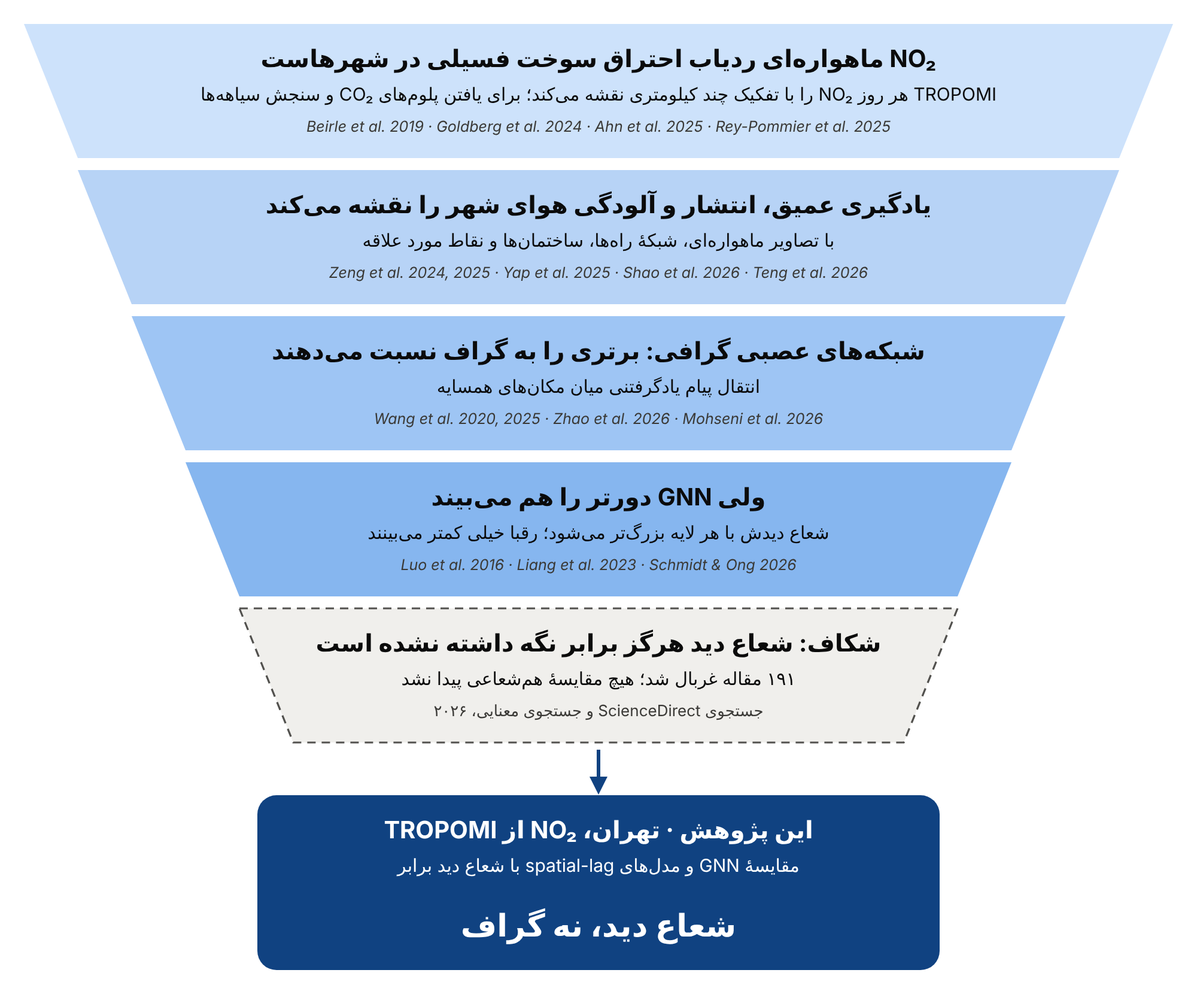
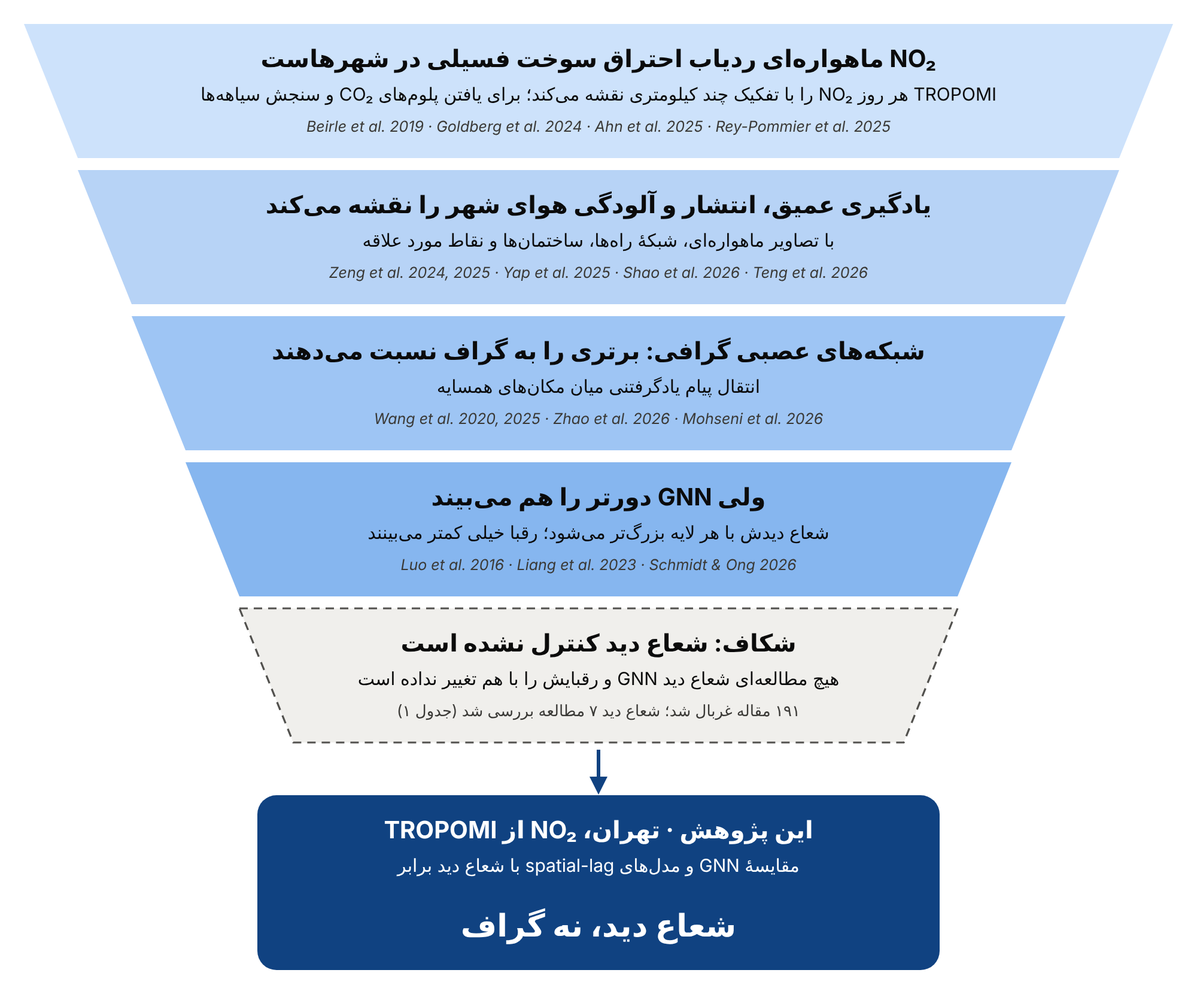
Paper: reach-matched evaluation protocol, reach audit of prior studies, prior art for the reach rule
- Prior-art check: setting a neighbourhood from the dependence range exists (Franklin
  1996 texture windows; Behrens 2019 contextual covariates; Valavi 2019 CV blocks;
  Alon & Yahav 2021 GNN depth; Freitas 2026 GNN receptive field). "Reach-matched"
  is unused. The rule is therefore presented as an adaptation, not a new method.
- Methods 3.2: correlation-length rule R* (zero crossing, 24 km) fixes one reach for
  the GNN and the SLX baselines; computed after stage A, so results are consistent
  with it, not a blind test.
- Introduction: Table 1, a reach audit of seven GNN studies read in full (arXiv).
  None gives a nonlinear spatial-lag baseline the GNN's reach or varies the reach of
  both; Liang et al. (2023) is the closest (linear SLX on the same 5 neighbours).
  Novelty sentence narrowed accordingly; tables renumbered (Table S1 supplementary).
- Results 4.3: all three SLX estimators at R* on the held-out year (descriptive).
- Highlights, abstract, discussion and Fig. 1 (both languages) updated; 6 references
  added (Crossref/arXiv checked).
- docs/paper/lit: README sections 4-5 and a Persian audit for the thesis.

Claude-Session: https://claude.ai/code/session_01QqPAc6FfeQJynBC1FwdAtq

Changed region(s): [[0.279, 0.6145, 0.744, 0.7373]]

diff --git a/docs/paper/manuscript/manuscript_en.md b/docs/paper/manuscript/manuscript_en.md
@@ -16,7 +16,7 @@ Data and code availability). Items in [brackets] are to be completed before subm
 - Skill rises steeply until the model sees about 12 km and saturates within the target's 24-km correlation length.
 - At equal reach, a linear spatial-lag model matches a five-layer graph neural network on an unseen year.
 - Averaging training seeds and a block bootstrap overstated the graph model's advantage.
-- Reach-matched spatial baselines should become the standard test for spatial deep learning.
+- A correlation-length rule gives graph and baseline models the same reach.
 
 ---
 
@@ -27,7 +27,8 @@ usually attributed to learning on a graph. We test this attribution for intra-ur
 space. In Tehran, a megacity with some of the highest tropospheric NO₂ columns among large cities worldwide, we predict
 the monthly TROPOMI NO₂ pattern on a 1-km grid (2,436 cells) from bottom-up traffic and energy emission layers, ground
 monitoring and urban-form data. We compare a multi-scale GraphSAGE model with spatially lagged regression (SLX) models
-whose neighbourhood reach is varied systematically from 0 to 38 km. All models are validated with 22-km spatial blocks
+whose neighbourhood reach is varied systematically from 0 to 38 km and, for the main comparison, set for all models
+by one rule: the correlation length of the target. All models are validated with 22-km spatial blocks
 and on a held-out year, with leakage-free pre-processing, five training seeds and inference designed for few spatial
 blocks.
 
@@ -126,22 +127,58 @@ The question has begun to surface in GIScience and environmental modelling:
   - GNN residuals can remain spatially autocorrelated (Bao et al., 2024).
   - A GNN that generalised within a fixed graph struggled under leave-one-cluster-out validation (Flores et al., 2026).
 
-In none of these comparisons, however, is the neighbourhood that the baseline sees held equal to the receptive field of
-the graph model. We searched for such a study in two ways:
+Table 1 audits how far the GNN and its baselines see in comparable studies whose full text describes both.
+
+- **What the baselines see.** Their own location only, a neighbourhood of a different size, or one that is not
+  reported.
+- **The closest case** is Liang et al. (2023).
+  - Their linear SLX baseline averaged over the same nearest stations as their GNN.
+  - Their nonlinear baseline saw no neighbours.
+  - The GNN also drew on a second, non-geographic neighbourhood.
+- **No study in Table 1** gives a nonlinear spatial-lag baseline the GNN's reach, or varies the reach of both models.
+
+**Table 1.** How far the GNN and its baselines see in comparable studies (full texts read; "n.r.": not reported).
+
+| Study | Task and units | GNN and its reach | Baselines and what they see | Reach matched? |
+|---|---|---|---|---|
+| Wang et al. (2020) | PM2.5 forecasts; 184 cities, China | Cities linked if < 300 km apart with no ridge > 1,200 m between them; one graph step per 3-h step | MLP, LSTM, GRU: own city only. GC-LSTM: the same graph. nodesFC-GRU: all cities | Only for GC-LSTM, itself a graph model |
+| Liang et al. (2023) | Trip generation; about 1,000 bike-share stations, New York | One attention layer over the 5 nearest and the 5 most similar stations | Linear SLX: nearby stations (apparently the same 5). Linear regression, XGBoost: own-station features only | Only for the linear SLX |
+| Klemmer et al. (2023) | Four geographic regression datasets | GCN, GAT, GraphSAGE: 2 layers on a 5-nearest-neighbour graph | Exact Gaussian process: all training points | No: the baseline sees more |
+| Hettige et al. (2024) | PM2.5 forecasts; 35 and 11 stations, Beijing and Shenzhen | Distance- and wind-weighted station graph; reach n.r. | Historical average, ODE models: none. DCRNN, STGCN: 3-step graph diffusion. AirFormer: 50 and 200 km. GTS: learned 30-nearest graph | No |
+| Gueterbock et al. (2025) | Hourly NO₂ with TROPOMI; 8 sites, Bristol | GraphSAGE, 2 hops (3 and 5 sampled neighbours) | XGBoost, MLP, CNN: per-site inputs; neighbours n.r. | n.r. |
+| Du et al. (2026) | PM2.5 imputation; 41 sensors, Fresno | 5 layers on complete graphs (all sensors) | Inverse-distance weighting, mean fill: all sensors. Kriging, Gaussian process: n.r. Geo-LSTM: K nearest, K n.r. | Partly; simple interpolation beat the data-driven GNNs |
+| Zhao et al. (2026) | Health outcome; 4,835 areas of 1–4 km², London | GATv2, 2 layers on contiguity (2 steps) | Spatial lag model, GWR: weights and bandwidth n.r. RF, LightGBM: none | n.r.; 2- and 3-step graphs lowered skill |
+| **This study** | NO₂ hotspots; 2,436 cells of 1 km, Tehran | GraphSAGE, 3 layers × 9 cells: 22.7 km (5 layers, 37.8 km, on the held-out year) | SLX-OLS, SLX-GBM, SLX-RF: 0–37.8 km. No-graph network: own cell | **Yes**: reach set by one rule for all models, and varied |
+
+[Rows to be added once the full texts of Schmidt & Ong (2026), Mohseni et al. (2026), Zhu et al. (2026) and Shao et al.
+(2026) have been read.]
+
+We also searched for such a study in two ways:
 
 - a structured ScienceDirect search: five Boolean queries combining graph neural networks with spatial lag, receptive
   field, air pollution, satellite NO₂ and urban emissions, giving 191 unique records, most from 2025–2026;
 - a semantic search of the wider literature.
 
-Neither found a study that compares a GNN with a spatial-lag or buffer baseline constrained to the same reach, nor one
-that varies the reach of both. The search record is in the repository (`docs/paper/lit/`). To our knowledge, the reach
-of a GNN has therefore never been separated from its graph architecture, in urban emission and air-pollution mapping or
-elsewhere. Fig. 1 traces how the literature narrows to this gap. Here we close it for intra-urban combustion hotspots
-observed by TROPOMI in Tehran. Tehran is a megacity of about nine million people at the foot of the Alborz mountains, with the highest mean NO₂ column among large
-cities worldwide (Huber et al., 2026). Our contributions are:
+Neither found a study that compares a GNN with a nonlinear spatial-lag or buffer baseline constrained to the same reach,
+nor one that varies the reach of both. The search record is in the repository (`docs/paper/lit/`).
 
-1. **A reach-matched comparison.** We vary the reach of SLX models from 0 to 38 km and compare them with a multi-scale
-   GraphSAGE model at equal reach, under 22-km block cross-validation and on a held-out year.
+Choosing a neighbourhood from the range of spatial dependence is itself established practice:
+
+- window sizes for image texture (Franklin et al., 1996);
+- the scale range of contextual covariates in machine learning (Behrens et al., 2019);
+- the size of spatial cross-validation blocks (Valavi et al., 2019);
+- the depth of a GNN relative to the radius a task needs (Alon & Yahav, 2021);
+- the receptive field of a GNN for turbulent transport (Freitas et al., 2026).
+
+It has not been used to give a GNN and its baselines the same reach. To our knowledge, the reach of a GNN has therefore
+never been separated from its graph architecture, in urban emission and air-pollution mapping or elsewhere. Fig. 1
+traces how the literature narrows to this gap. Here we close it for intra-urban combustion hotspots observed by TROPOMI
+in Tehran. Tehran is a megacity of about nine million people at the foot of the Alborz mountains, with the highest mean
+NO₂ column among large cities worldwide (Huber et al., 2026). Our contributions are:
+
+1. **A reach-matched evaluation protocol.** One rule sets the reach of the GNN and of its spatial-lag baselines
+   before any model is fitted: the correlation length of the target. We also vary the reach of the SLX models from 0
+   to 38 km. Models are compared under 22-km block cross-validation and on a held-out year.
 2. **A physical interpretation of the needed reach.** We relate the reach at which skill saturates to the correlation
    length of the satellite target and to the transport scale of NOx.
 3. **A quantified account of evaluation pitfalls on a real case:** the target's effective sample size, the hidden
@@ -155,7 +192,7 @@ Decision rules for the main comparisons were registered before the corresponding
 
 **Fig. 1.** From the literature to the gap. Satellite NO₂ is used as a tracer of urban combustion; deep learning, and
 graph neural networks in particular, map urban emissions and air pollution; their gains are credited to the graph.
-A GNN, however, also sees further than its baselines, and no study has held this reach equal. This study does.
+A GNN, however, also sees further than its baselines, and no study has controlled this reach. This study does.
 
 ---
 
@@ -250,6 +287,20 @@ Cells are converted to kilometres with the mean cell size (0.84 km). Reaches com
 37.8 km for SLX, and 0 and 22.7 km for the development GNN (three layers). On the held-out year the GNN has 37.8 km
 (five layers, the depth fixed in the original confirmatory design).
 
+**A correlation-length rule for reach (R\*).** To fix reach without tuning, we set it to the correlation length of the
+target: the distance R\* at which the correlogram of the monthly target first crosses zero (Section 2.4; 24.0 km in
+both development years).
+
+- **The principle is borrowed.** We adapt a principle used for texture windows, contextual covariates, cross-validation
+  blocks and GNN depth (Section 1).
+- **The use is new.** We use it to give a GNN and its spatial-lag baselines the same reach, chosen before either is
+  fitted.
+- **On our grid.** R\* corresponds to SLX windows of up to 27 cells (22.7 km), which is also the reach of the
+  three-layer GNN.
+
+We call a comparison reach-matched when every model sees the same distance, here R\*. R\* was computed after the
+stage A runs (Section 3.6). Results at R\* are therefore consistent with the rule, not a blind test of it.
+
 ### 3.3 Validation designs
 
 - **Spatial cross-validation.** The domain is divided into 22-km square blocks (the autocorrelation range estimated
@@ -309,14 +360,14 @@ hash, data hash and code version.
 
 ### 4.1 Skill is governed by reach
 
-Table 2 and Fig. 4 show skill against reach. The pattern is the same for every model family and both development years.
+Table 3 and Fig. 4 show skill against reach. The pattern is the same for every model family and both development years.
 
 - **Own cell (reach 0).** Models reach a Spearman of 0.66–0.77 and a PR-AUC of 0.45–0.53.
 - **About 12 km.** Every SLX estimator reaches 0.91–0.93 in Spearman and 0.71–0.80 in PR-AUC.
 - **Beyond 12 km.** The curves flatten: SLX models at 22.7–37.8 km reach Spearman 0.924–0.950.
 - **Most of the gain arrives before the target's correlation length** (24 km). Seeing further than that adds little.
 
-**Table 2.** Cross-validated skill against reach (22-km blocks; 1402 / 1403). Ensemble = mean of five seeds; single =
+**Table 3.** Cross-validated skill against reach (22-km blocks; 1402 / 1403). Ensemble = mean of five seeds; single =
 mean score of the individual seeds.
 
 | Reach (km) | Model | Spearman | PR-AUC |
@@ -356,7 +407,7 @@ bar the range of the single seeds. Dashed line: zero crossing of the target corr
 - In PR-AUC, a single GNN is not better than the best SLX model at that reach (0.771 vs 0.803 in 1402; 0.804 vs 0.797 in
   1403).
 
-**Against the best SLX model at any reach** (Table 3, Fig. 5), the GNN ensemble differs by −0.001 and +0.010 in Spearman. The
+**Against the best SLX model at any reach** (Table 4, Fig. 5), the GNN ensemble differs by −0.001 and +0.010 in Spearman. The
 jackknife intervals ([−0.034, +0.032] and [−0.028, +0.048]) and the randomisation tests (p = 0.58 and 0.13) show no
 advantage. The PR-AUC differences (+0.019 and +0.053) are inconclusive, and they shrink to −0.010 and +0.016 for single
 seeds.
@@ -365,7 +416,7 @@ seeds.
 +0.025 and +0.035 in Spearman (randomisation p = 0.001 and 0.0007; Holm-adjusted p = 0.021 and 0.016), and +0.037 and
 +0.051 in PR-AUC. The comparison that made the GNN look better was a comparison of reaches.
 
-**Table 3.** GNN (ensemble) minus reference, cross-validation on 1402 / 1403. Intervals: delete-one-block jackknife,
+**Table 4.** GNN (ensemble) minus reference, cross-validation on 1402 / 1403. Intervals: delete-one-block jackknife,
 95 %. p: one-sided exact block sign-flip test.
 
 | Reference | Metric | Δ 1402 [95 % CI] | p | Δ 1403 [95 % CI] | p |
@@ -387,6 +438,10 @@ On 1404, new places in a new year, the five-layer GNN reaches Spearman 0.933 and
 - **Cost.** This linear model's cross-validation ran in 8 s on a CPU, against 39 min on a GPU for the GNN.
 - **Caveat.** The best reach-matched model was identified after the results among fifteen variants, which favours it.
   Its margin over the GNN is nonetheless nil, not large.
+- **At the rule's reach.** R\* is computed from the target alone, not from model skill, and selects the same 22.7-km
+  windows.
+  - Spearman: all three SLX estimators are within 0.02 of the GNN (OLS 0.929, RF 0.919, GBM 0.916, against 0.933).
+  - PR-AUC: only OLS matches it (0.785; RF 0.727, GBM 0.642, against 0.782).
 
 ![Figure 5](../figures/fig5_differences.png)
 
@@ -490,7 +545,8 @@ teleconnections (Chen et al., 2026) or flows on a transport network (Mohseni et 
 We recommend five practices:
 
 1. **Reach-matched baselines.** Report a spatial-lag (SLX or buffer-based) baseline whose reach equals the model's
-   receptive field. It costs seconds.
+   receptive field. It costs seconds. Where the task gives no reach, set it for all models from the correlation length
+   of the target.
 2. **A skill-against-reach curve.** Report the reach at which skill saturates, and relate it to the correlation length of
    the target.
 3. **Single seeds as well as ensembles.** Report single-seed results next to ensembles, or ensemble the baselines too.
@@ -603,8 +659,10 @@ four conference papers (NeurIPS, ICLR, MLSys) and Holm (1979).
 
 - Abémgnigni Njifon, M., & Schuhmacher, D. (2024). Graph convolutional networks for spatial interpolation of correlated data. *Spatial Statistics*, 60, 100822. https://doi.org/10.1016/j.spasta.2024.100822
 - Ahn, D., Goldberg, D., Liu, F., Anderson, D., Coombes, T., Loughner, C., et al. (2025). Satellite-based analysis of CO₂ emissions from global cities: regional, economic, and demographic attributes. *AGU Advances*, 6, e2025AV001747. https://doi.org/10.1029/2025AV001747
+- Alon, U., & Yahav, E. (2021). On the bottleneck of graph neural networks and its practical implications. *International Conference on Learning Representations (ICLR)*. arXiv:2006.05205. https://doi.org/10.48550/arXiv.2006.05205
 - Bai, K., Li, K., Qiu, S., Zheng, Z., Jiao, P., Sun, Y., et al. (2025). SCAGAT: a scene-aware ensemble graph attention network for global PM2.5 pollution mapping via land–atmosphere interactions. *ISPRS Journal of Photogrammetry and Remote Sensing*, 225, 19–35. https://doi.org/10.1016/j.isprsjprs.2025.04.019
 - Bao, L.-L., Zhang, C.-X., Zhang, J.-S., & Guo, R. (2024). A two-stage spatial prediction modeling approach based on graph neural networks and neural processes. *Expert Systems with Applications*, 258, 125173. https://doi.org/10.1016/j.eswa.2024.125173
+- Behrens, T., Viscarra Rossel, R. A., Kerry, R., MacMillan, R., Schmidt, K., Lee, J., Scholten, T., & Zhu, A.-X. (2019). The relevant range of scales for multi-scale contextual spatial modelling. *Scientific Reports*, 9, 14800. https://doi.org/10.1038/s41598-019-51395-3
 - Beirle, S., Boersma, K. F., Platt, U., Lawrence, M. G., & Wagner, T. (2011). Megacity emissions and lifetimes of nitrogen oxides probed from space. *Science*, 333, 1737–1739. https://doi.org/10.1126/science.1207824
 - Beirle, S., Borger, C., Dörner, S., Li, A., Hu, Z., Liu, F., Wang, Y., & Wagner, T. (2019). Pinpointing nitrogen oxide emissions from space. *Science Advances*, 5, eaax9800. https://doi.org/10.1126/sciadv.aax9800
 - Beirle, S., & Wagner, T. (2024). A new method for estimating megacity NOx emissions and lifetimes from satellite observations. *Atmospheric Measurement Techniques*, 17, 3439–3453. https://doi.org/10.5194/amt-17-3439-2024
@@ -614,6 +672,8 @@ four conference papers (NeurIPS, ICLR, MLSys) and Holm (1979).
 - Du, S., Wei, H., Lee, D., Hu, Z., & Pan, S. (2026). Graph-based physics-guided urban PM2.5 air quality imputation with constrained monitoring data. *ACM Transactions on Sensor Networks*, 22, 1–23. https://doi.org/10.1145/3734869
 - Fleischmann, M., & Arribas-Bel, D. (2024). Decoding (urban) form and function using spatially explicit deep learning. *Computers, Environment and Urban Systems*, 112, 102147. https://doi.org/10.1016/j.compenvurbsys.2024.102147
 - Flores, M., Soliz, M., & Mollineda, R. A. (2026). Graph neural networks for soil organic carbon estimation: data-efficient modeling of multimodal spatial dependencies. *Machine Learning with Applications*, 24, 100878. https://doi.org/10.1016/j.mlwa.2026.100878
+- Franklin, S. E., Wulder, M. A., & Lavigne, M. B. (1996). Automated derivation of geographic window sizes for use in remote sensing digital image texture analysis. *Computers & Geosciences*, 22, 665–673. https://doi.org/10.1016/0098-3004(96)00009-X
+- Freitas, A., de Wit, X. M., Gabbana, A., Woodward, M., Toschi, F., Lin, Y. T., & Livescu, D. (2026). Learning turbulent transport via Mori–Zwanzig graph neural networks. arXiv:2606.14918. https://doi.org/10.48550/arXiv.2606.14918
 - Gao, H., Yang, F., Yang, Y., Xu, Y., & Su, Y. (2025). Adaptive receptive field graph neural networks. *Neural Networks*, 190, 107658. https://doi.org/10.1016/j.neunet.2025.107658
 - Goldberg, D. L., Tao, M., Kerr, G. H., Ma, S., Tong, D. Q., Fiore, A. M., et al. (2024). Evaluating the spatial patterns of U.S. urban NOx emissions using TROPOMI NO₂. *Remote Sensing of Environment*, 300, 113917. https://doi.org/10.1016/j.rse.2023.113917
 - Griffith, D. A. (2005). Effective geographic sample size in the presence of spatial autocorrelation. *Annals of the Association of American Geographers*, 95, 740–760. https://doi.org/10.1111/j.1467-8306.2005.00484.x
@@ -626,6 +686,7 @@ four conference papers (NeurIPS, ICLR, MLSys) and Holm (1979).
 - Huber, D., Kerr, G., Nawaz, M., Runkel, S., Anenberg, S., Goldberg, D., et al. (2026). Global NO₂ changes between 2019 and 2024 as observed by TROPOMI in urban areas and emerging hotspots. *Atmospheric Chemistry and Physics*, 26, 3783–3803. https://doi.org/10.5194/acp-26-3783-2026
 - Kafi, A., Hosseinipoor, M., & Shahne, M. (2026). Evaluating the suitability of Sentinel-5P satellite data for air quality monitoring in Tehran. *Science of the Total Environment*, 1049, 182069. https://doi.org/10.1016/j.scitotenv.2026.182069
 - Kapoor, S., & Narayanan, A. (2023). Leakage and the reproducibility crisis in machine-learning-based science. *Patterns*, 4, 100804. https://doi.org/10.1016/j.patter.2023.100804
+- Klemmer, K., Safir, N., & Neill, D. B. (2023). Positional encoder graph neural networks for geographic data. *Proceedings of the 26th International Conference on Artificial Intelligence and Statistics (AISTATS)*, PMLR 206. arXiv:2111.10144. https://doi.org/10.48550/arXiv.2111.10144
 - Lakens, D. (2017). Equivalence tests: a practical primer for t tests, correlations, and meta-analyses. *Social Psychological and Personality Science*, 8, 355–362. https://doi.org/10.1177/1948550617697177
 - Li, H., Qiu, J., Zhang, K., & Zheng, B. (2025). Monitoring fossil fuel CO₂ emissions from co-emitted NO₂ observed from space: progress, challenges, and future perspectives. *Frontiers of Environmental Science & Engineering*, 19, 2. https://doi.org/10.1007/s11783-025-1922-x
 - Liang, Y., Ding, F., Huang, G., & Zhao, Z. (2023). Deep trip generation with graph neural networks for bike sharing system expansion. *Transportation Research Part C: Emerging Technologies*, 154, 104241. https://doi.org/10.1016/j.trc.2023.104241
@@ -646,6 +707,7 @@ four conference papers (NeurIPS, ICLR, MLSys) and Holm (1979).
 - Schmidt, R., & Ong, L. L. S. (2026). From leaves to breezes: machine learning based prediction of nitrogen dioxide concentration from surrounding urban greenery and meteorological, spatial, and traffic characteristics in Berlin, Germany. *Ecological Informatics*, 93, 103568. https://doi.org/10.1016/j.ecoinf.2025.103568
 - Shao, W., Tu, Y., Yue, T., Zhao, N., Zhou, H., Zhang, L., et al. (2026). Mapping Chinese urban carbon emissions with a graph-based multi-branch deep learning framework. *GIScience & Remote Sensing*, 63, 2631837. https://doi.org/10.1080/15481603.2026.2631837
 - Teng, M., Liang, M., Wang, S., & Ding, Y. (2026). Seamless hourly PM2.5 mapping across China with a graph spatiotemporal deep neural network. *Environmental Modelling & Software*, 198, 106915. https://doi.org/10.1016/j.envsoft.2026.106915
+- Valavi, R., Elith, J., Lahoz-Monfort, J. J., & Guillera-Arroita, G. (2019). blockCV: an R package for generating spatially or environmentally separated folds for k-fold cross-validation of species distribution models. *Methods in Ecology and Evolution*, 10, 225–232. https://doi.org/10.1111/2041-210X.13107
 - Wadoux, A. M. J.-C., Heuvelink, G. B. M., de Bruin, S., & Brus, D. J. (2021). Spatial cross-validation is not the right way to evaluate map accuracy. *Ecological Modelling*, 457, 109692. https://doi.org/10.1016/j.ecolmodel.2021.109692
 - Wang, S., Li, Y., Zhang, J., Meng, Q., Meng, L., & Gao, F. (2020). PM2.5-GNN: a domain knowledge enhanced graph neural network for PM2.5 forecasting. *Proceedings of the 28th International Conference on Advances in Geographic Information Systems (SIGSPATIAL)*, 163–166. https://doi.org/10.1145/3397536.3422208
 - Wang, S., Zhang, Y., Lin, X., Piao, X., Hu, Y., & Yin, B. (2025). CMDNet: a cross-modality spatiotemporal graph network for enhanced air pollution prediction with high-resolution satellite data. *IEEE Transactions on Geoscience and Remote Sensing*, 63, 1–14. https://doi.org/10.1109/TGRS.2025.3569594
@@ -664,14 +726,16 @@ four conference papers (NeurIPS, ICLR, MLSys) and Holm (1979).
 
 ## Tables and figures
 
-**Table 1.** Data sources: the predictor table of Section 2.3 with sources and years (to be laid out from
+**Table 1.** Reach of GNNs and their baselines in comparable studies (Section 1).
+
+**Table 2.** Data sources: the predictor table of Section 2.3 with sources and years (to be laid out from
 `configs/config.yaml`, `data/raw/MANIFEST.csv`).
 
-**Table 2.** Cross-validated skill against reach (Section 4.1).
+**Table 3.** Cross-validated skill against reach (Section 4.1).
 
-**Table 3.** GNN minus reference (Section 4.2).
+**Table 4.** GNN minus reference (Section 4.2).
 
-**Table 4 (supplementary).** All comparisons with jackknife and bootstrap intervals, randomisation p-values and verdicts:
+**Table S1 (supplementary).** All comparisons with jackknife and bootstrap intervals, randomisation p-values and verdicts:
 `docs/paper/results_stageA/evaluate_paper2/` and `evaluate_thesis/`.
 
 **Figures.** All figures share one style: the same colours for the same models in every figure (GNN blue, SLX-OLS

diff --git a/docs/paper/lit/reach_audit_fa.md b/docs/paper/lit/reach_audit_fa.md
@@ -1,0 +1,58 @@
+# شعاع دید در مطالعههای پیشین (برای فصل مرور ادبیات)
+
+تاریخ: ۲۱ آبان ۱۴۰۵. متن کامل هر مطالعه خوانده شده است؛ منبع هر سطر در `docs/paper/lit/README.md` آمده.
+**«گزارش نشده»** یعنی خود مقاله آن را ننوشته است.
+
+## ۱. GNN و رقبایش در هر مطالعه تا کجا را میبینند؟
+
+| مطالعه | موضوع و واحدها | GNN تا کجا را میبیند | رقبا تا کجا را میبینند | شعاع برابر؟ |
+|---|---|---|---|---|
+| Wang و همکاران ۲۰۲۰ | پیشبینی PM2.5؛ ۱۸۴ شهر چین | شهرهای زیر ۳۰۰ km که کوه بالای ۱٬۲۰۰ m میانشان نیست؛ یک گام گراف در هر ۳ ساعت | MLP، LSTM، GRU: فقط خود شهر. GC-LSTM: همان گراف. nodesFC-GRU: همهٔ شهرها | فقط برای GC-LSTM که خودش گرافی است |
+| Liang و همکاران ۲۰۲۳ | تولید سفر؛ حدود ۱٬۰۰۰ ایستگاه دوچرخهٔ نیویورک | یک لایهٔ توجه روی ۵ ایستگاه نزدیک و ۵ ایستگاه مشابه | SLX خطی: ایستگاههای نزدیک (ظاهراً همان ۵ تا). رگرسیون خطی و XGBoost: فقط ویژگیهای خود ایستگاه | فقط برای SLX خطی |
+| Klemmer و همکاران ۲۰۲۳ | چهار دادهٔ رگرسیون جغرافیایی | GCN، GAT، GraphSAGE: دو لایه روی گراف ۵ همسایهٔ نزدیک | فرایند گاوسی دقیق: همهٔ نقاط آموزش | نه؛ رقیب بیشتر میبیند |
+| Hettige و همکاران ۲۰۲۴ | پیشبینی PM2.5؛ ۳۵ و ۱۱ ایستگاه (پکن، شنژن) | گراف وزندار با فاصله و باد؛ شعاع گزارش نشده | میانگین تاریخی و مدلهای ODE: هیچ. DCRNN و STGCN: پخش سهگامی روی گراف. AirFormer: ۵۰ و ۲۰۰ km. GTS: گراف ۳۰ همسایه | نه |
+| Gueterbock و همکاران ۲۰۲۵ | NO₂ ساعتی با TROPOMI؛ ۸ ایستگاه بریستول | GraphSAGE، دو گام (۳ و ۵ همسایهٔ نمونهگیریشده) | XGBoost، MLP، CNN: ورودی خود ایستگاه؛ همسایه گزارش نشده | گزارش نشده |
+| Du و همکاران ۲۰۲۶ | جایگذاری PM2.5؛ ۴۱ حسگر در فرزنو | ۵ لایه روی گراف کامل (همهٔ حسگرها) | IDW و میانگین: همهٔ حسگرها. کریجینگ و GP: گزارش نشده | تا حدی؛ درونیابی ساده از GNNهای دادهمحور بهتر بود |
+| Zhao و همکاران ۲۰۲۶ | پیامد سلامت؛ ۴٬۸۳۵ ناحیهٔ ۱ تا ۴ km² لندن | GATv2، دو لایه روی همجواری | مدل spatial lag و GWR: ماتریس وزن و پهنای باند گزارش نشده. RF و LightGBM: هیچ | گزارش نشده؛ گرافهای دو و سهگامی مهارت را کم کردند |
+| **این پژوهش** | کانونهای NO₂؛ ۲٬۴۳۶ سلول یککیلومتری تهران | GraphSAGE، ۳ لایه × ۹ سلول: ۲۲٫۷ km (روی ۱۴۰۴، ۵ لایه: ۳۷٫۸ km) | SLX-OLS، SLX-GBM و SLX-RF: ۰ تا ۳۷٫۸ km. شبکهٔ بدون گراف: فقط خود سلول | **بله**؛ شعاع همه با یک قاعده تعیین شده و تغییر هم داده شده |
+
+**نتیجه:** هیچ مطالعهای به رقیب غیرخطیِ spatial-lag همان شعاع دید GNN را نداده است. هیچ مطالعهای هم شعاع دید هر دو را تغییر نداده است.
+
+- **نزدیکترین کار:** Liang و همکاران (۲۰۲۳). خودشان GNN را «SLX تعمیمیافته» مینامند.
+- **چیزی که کم داشت:**
+  - SLX آنها خطی بود؛ رقیب غیرخطیشان (XGBoost) هیچ همسایهای نمیدید.
+  - GNN یک همسایگی غیرجغرافیایی هم داشت.
+  - شعاع دید را هم تغییر ندادند.
+
+## ۲. «شعاع دید را از برد همبستگی بگیر»: این قاعده تازه نیست
+
+| منبع | چه چیزی را از برد وابستگی فضایی تعیین میکند |
+|---|---|
+| Franklin و همکاران ۱۹۹۶ | اندازهٔ پنجرهٔ بافت در تصاویر سنجش از دور (از سمیواریوگرام) |
+| Behrens و همکاران ۲۰۱۹ | بازهٔ مقیاس متغیرهای همسایگی در یادگیری ماشین (از واریوگرام) |
+| Valavi و همکاران ۲۰۱۹ (blockCV) | اندازهٔ بلوکهای اعتبارسنجی متقابل فضایی |
+| Alon و Yahav ۲۰۲۱ | تعداد لایههای GNN متناسب با «شعاع مسئله» |
+| Freitas و همکاران ۲۰۲۶ | میدان دید یک GNN در جریان آشفته (از مقیاس طولی انتگرالی)؛ بدون رقیب غیرگرافی |
+
+**جایگاه ما:**
+
+- **وامگرفته:** خود قاعده.
+- **تازه:**
+  - بهکار بردنش برای دادن شعاع دید یکسان به GNN و رقبای spatial-lag، پیش از برازش هیچ مدلی؛
+  - تغییر دادن شعاع دید همهٔ مدلها.
+- **نام:** «reach-matched» در هیچ منبعی پیدا نشد. در مقاله از «پروتکل ارزیابی همشعاع» (reach-matched evaluation protocol) استفاده شده است.
+
+## ۳. هنوز خوانده نشده
+
+متن کامل این مقالهها روی ScienceDirect یا Taylor & Francis است و از این محیط در دسترس نبود:
+
+- Schmidt & Ong 2026
+- Mohseni et al. 2026
+- Zhu, Wang & Luo 2026
+- Shao et al. 2026
+- Ma et al. 2025
+- Teng et al. 2026
+- Yuan et al. 2026
+- Bai et al. 2025
+
+PDF آنها را بفرست تا سطرهایشان به جدول اضافه شود.

diff --git a/docs/paper/lit/README.md b/docs/paper/lit/README.md
@@ -56,3 +56,54 @@ al. (2026) and Zhao et al. (2026).
 ## 3. Reference checks
 
 All DOIs cited in the manuscript were checked against the Crossref API on 8 November 2026.
+
+## 4. Prior art for the reach rule (12 November 2026)
+
+**Question.** Has the neighbourhood of a model been set from the range of spatial dependence before? And is the name
+"reach-matched" taken?
+
+**Answer.** The principle exists; the name and the use do not.
+
+| Source | What it sets from the dependence range |
+|---|---|
+| Franklin, Wulder & Lavigne (1996), *Computers & Geosciences* 22:665 | Window size for image texture, from semivariograms |
+| Behrens et al. (2019), *Scientific Reports* 9:14800 | Range of scales of contextual covariates for machine learning, from the variogram |
+| Valavi et al. (2019), *Methods Ecol. Evol.* 10:225 (blockCV) | Size of spatial cross-validation blocks, from the autocorrelation range |
+| Alon & Yahav (2021), ICLR | GNN depth should match the "problem radius" of the task |
+| Freitas et al. (2026), arXiv:2606.14918 | Receptive field of a GNN for turbulent transport, set from the integral length scale; no non-graph baseline |
+
+- **Name.** Web searches for "reach-matched" and "range-matched" with GNN or spatial baselines return nothing.
+- **Use.** None of the sources uses the rule to give a GNN and its spatial-lag baselines the same reach.
+- **In the manuscript.** The rule is presented as an adaptation of this principle (Section 3.2), not as a new method.
+
+## 5. Reach audit of comparable studies (Table 1 of the manuscript)
+
+Full texts were read for seven studies that compare a GNN with baselines on spatial data.
+
+- **Sources:** arXiv versions or open proceedings. ScienceDirect and Taylor & Francis are not reachable from this
+  environment.
+- **For each study:** how far the GNN sees, and how far each baseline sees.
+- **Main finding:** no study gives a nonlinear spatial-lag baseline the GNN's reach, or varies the reach of both.
+- **Closest case:** Liang et al. (2023, *TR-C* 154:104241).
+  - Their linear SLX baseline used the same nearest stations as the GNN (5).
+  - Their XGBoost baseline saw no neighbours.
+  - The GNN also used 5 non-geographic neighbours.
+
+| Study | Source read | GNN reach | Baselines' reach |
+|---|---|---|---|
+| Wang et al. 2020 (PM2.5-GNN) | arXiv:2002.12898 | cities < 300 km, no ridge > 1,200 m; 1 step per 3 h | MLP/LSTM/GRU none; GC-LSTM same graph; nodesFC-GRU all |
+| Liang et al. 2023 | arXiv:2303.11977 | 1 attention layer, 5 nearest + 5 similar stations | linear SLX nearby (≈ same 5); LR, XGBoost none |
+| Klemmer et al. 2023 (PE-GNN) | arXiv:2111.10144 | 2 layers on 5-NN graph | exact GP all training points |
+| Hettige et al. 2024 (AirPhyNet) | arXiv:2402.03784 | distance/wind graph, reach not reported | none / 3-step diffusion / 50–200 km / 30-NN |
+| Gueterbock et al. 2025 | arXiv:2505.05479 | GraphSAGE 2 hops | not reported |
+| Du et al. 2026 (GraPhy) | arXiv:2506.06917 | 5 layers, complete graph | IDW and mean: all sensors; others not reported |
+| Zhao et al. 2026 (UST-GNN) | arXiv:2504.04739 | GATv2 2 layers, contiguity | SLM, GWR not reported; RF, LightGBM none |
+
+**Still to read** (the user can download the PDFs):
+
+- Schmidt & Ong 2026 (*Ecol. Inform.*)
+- Mohseni et al. 2026 (*TR-A*)
+- Zhu, Wang & Luo 2026 (*ISPRS J.*)
+- Shao et al. 2026 (*GIScience & RS*)
+- Ma et al. 2025 (*Spatial Statistics*)
+- Teng et al. 2026, Yuan et al. 2026, Bai et al. 2025
